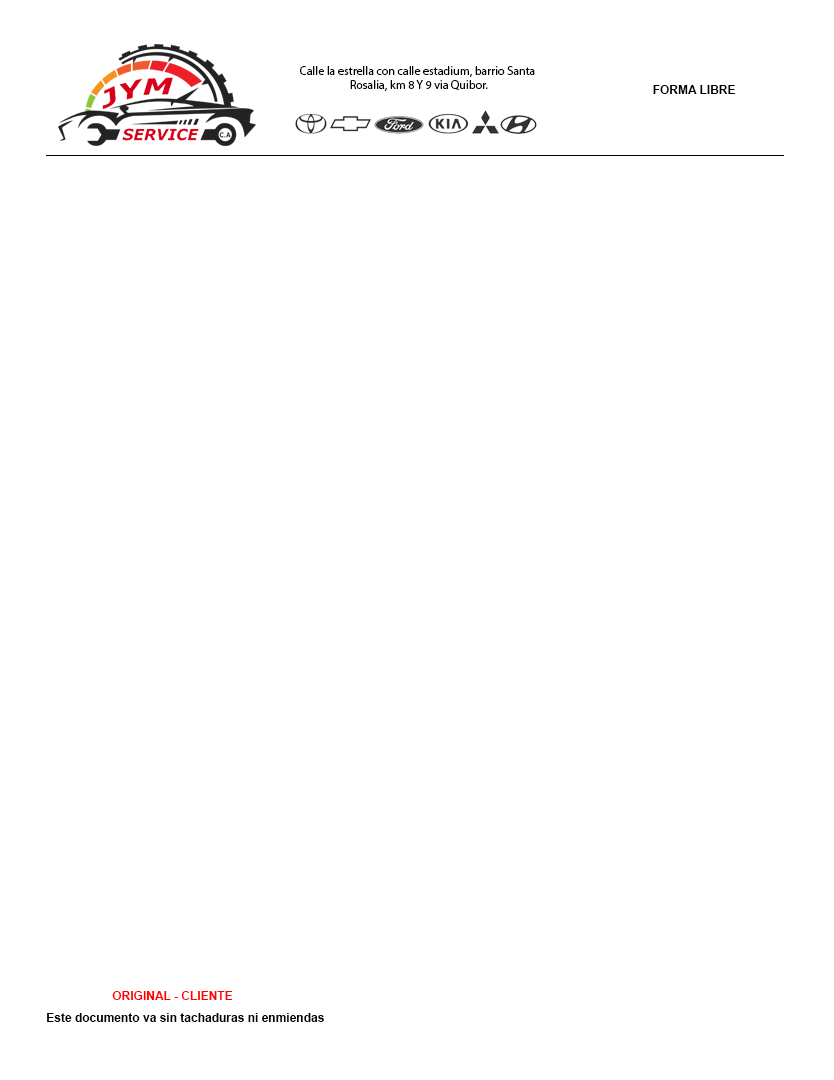
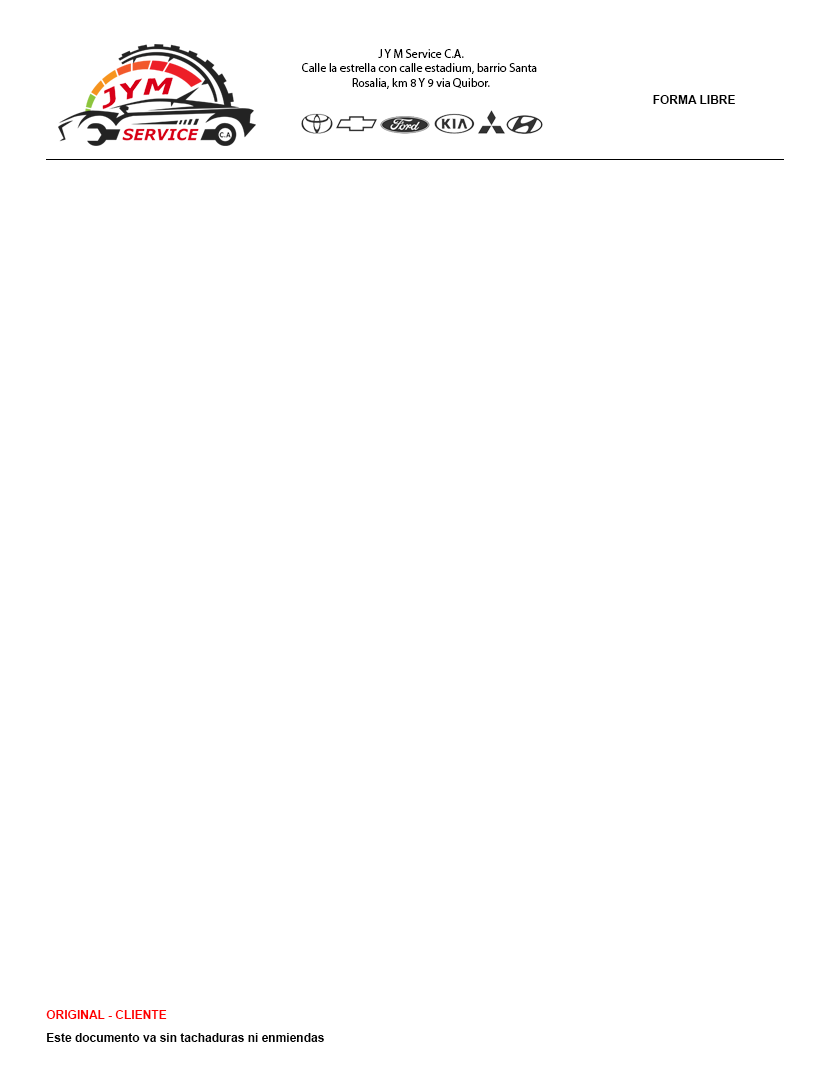
mejora de membretes

Changed region(s): [[0.3429, 0.0306, 0.6547, 0.1528], [0.0624, 0.9167, 0.3741, 0.9778], [0.7794, 0.0611, 0.8729, 0.1222]]

diff --git a/report/ordenPdf.php b/report/ordenPdf.php
@@ -184,7 +184,7 @@ label{
                     <tr style="font-size:10pt" class="even_row">
                       <td style="text-align:left"><div><span class=""><?php echo $detalles[$i]["servicio_n"]."--".$detalles[$i]["descripcion"];?></span></div></td>
                       <!-- <td style="text-align:center"><div><span class=""> <?php // echo $orden[$i]["e_nombre"];?></span></div></td> -->
-                      <td style="text-align:center"><div ><span class=""><?php echo $detalles[$i]["precio"];?></span></div></td>
+                      <td style="text-align:right"><div ><span class=""><?php echo $detalles[$i]["precio"];?></span></div></td>
                       
                     </tr>
 
@@ -213,13 +213,13 @@ label{
                         }
                     ?>
                        
-          <div style="float:left">
+     <!--      <div style="float:left">
             <label >A SOLO EFECTO DE LO PREVISTO EN EL ARTICULO 25<BR>
               DE LA LEY DE IMPUESTO DE VALOR AGREGADO SE<BR>
             EXPRESAN LOS MONTOS DE LA ORDEN EN BsS.<BR>
             CALCULADO A LA TASA DE CAMBIO POR BCV DE<BR>
           1 USD POR BsS.</label>
-          </div>
+          </div> -->
 
 
           <div class="">  
@@ -227,7 +227,7 @@ label{
                   <label style="text-align:left" class="Estilo2">TOTAL<?php 
                     echo " Bs.";
                   ?></label>
-                  <label style="float:right; margin-top: 7%" class="" id="subtotal"><?php
+                  <label style="text-align:right; margin-top: 7%" class="" id="subtotal"><?php
                         echo $subtotal;
                         ?></label>
               </div>  
@@ -245,8 +245,6 @@ use Dompdf\Options;
 use Dompdf\FontMetrics;
 // Introducimos HTML de prueba
   
- //$html=file_get_contents_curl("http://computenser.test/computenser/report/factura.php");
-
 $options = new Options();
 $options->set('isPhpEnable','true');
  
@@ -261,8 +259,8 @@ $pdf->set_paper("letter", "portrait");
 $canvas = $pdf->getCanvas();
 $w = $canvas->get_width();
 $h = $canvas->get_height();
-//$imagenUrl = '../public/images/perfil-avatar-mujer-icono-redondo_24640-14042.jpg';
-$imagenUrl = 'formato.png';
+
+$imagenUrl = 'formato_orden.png';
 $imgwidth = 612;
 $imgHeight = 792;
 

diff --git a/vistas/empleada.php b/vistas/empleada.php
@@ -32,7 +32,7 @@
         
             <div class="row">
                 <div class="col-lg-12">
-            <button class="btn btn-primary" id="add_button" onClick="limpiar()" data-toggle="modal" data-target="#empleadaModal"><i class="fa fa-plus" aria-hidde="true"></i> Nueva Empleada</button>
+            <button class="btn btn-primary" id="add_button" onClick="limpiar()" data-toggle="modal" data-target="#empleadaModal"><i class="fa fa-plus" aria-hidde="true"></i> Nuevo Empleado</button>
             </div>
             </div>
   
